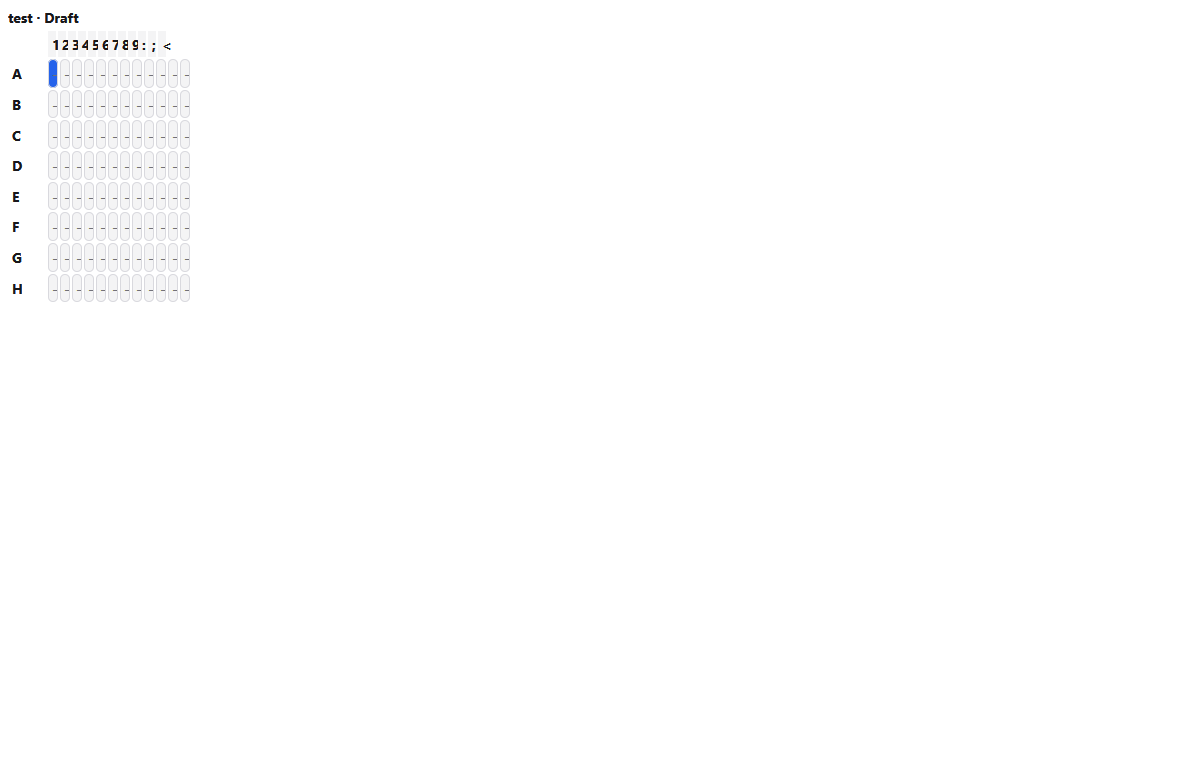
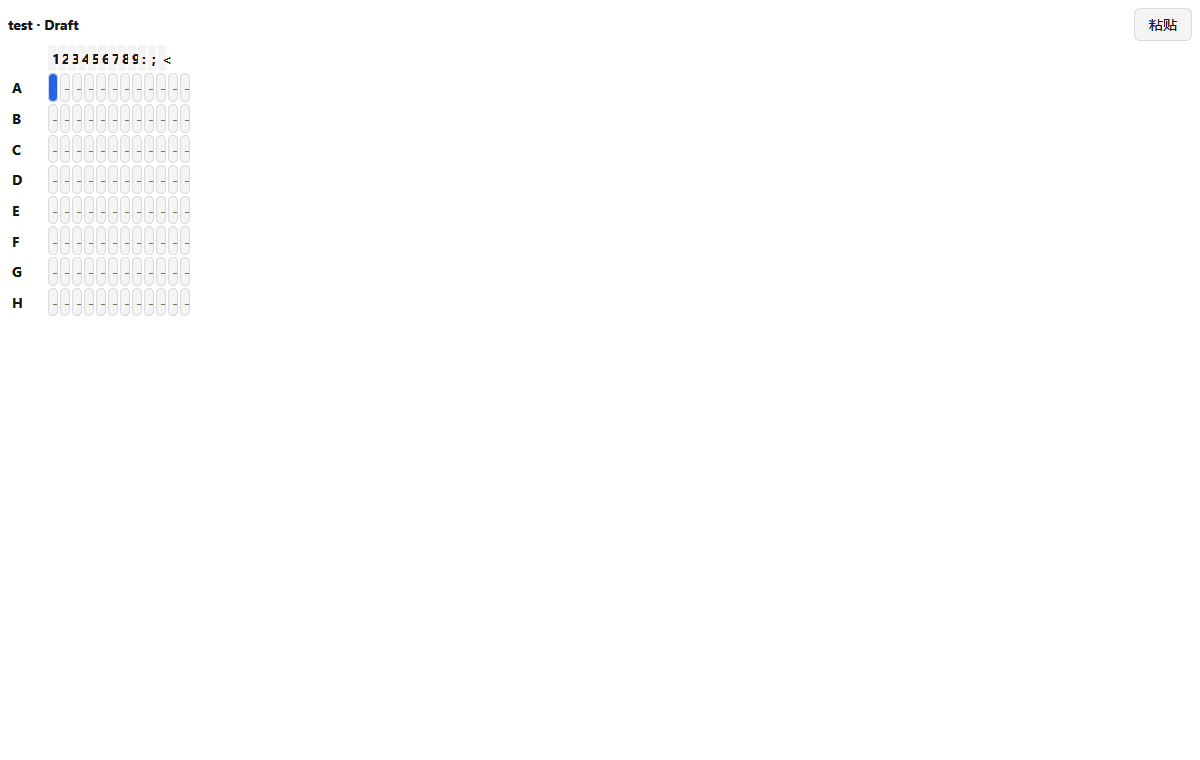
fix: add explicit grid paste action and NSIS silent flags

diff --git a/prototypes/mygo-run/internal/resultgrid/view.go b/prototypes/mygo-run/internal/resultgrid/view.go
@@ -22,6 +22,13 @@ func View(c *ui.Context, g *Grid, opts Options) {
 			if g.Error != "" {
 				ui.Text(c, g.Error).TextColor(c.Theme().Danger)
 			}
+			ui.Spacer(c)
+			if ui.Button(c, "粘贴").Clicked() {
+				if _, err := g.PasteTSV(c.ReadClipboard()); err != nil {
+					g.Error = err.Error()
+					g.State = StateError
+				}
+			}
 		})
 		if g.Preview != nil {
 			ui.Row(c).Gap(8).Children(func() {
